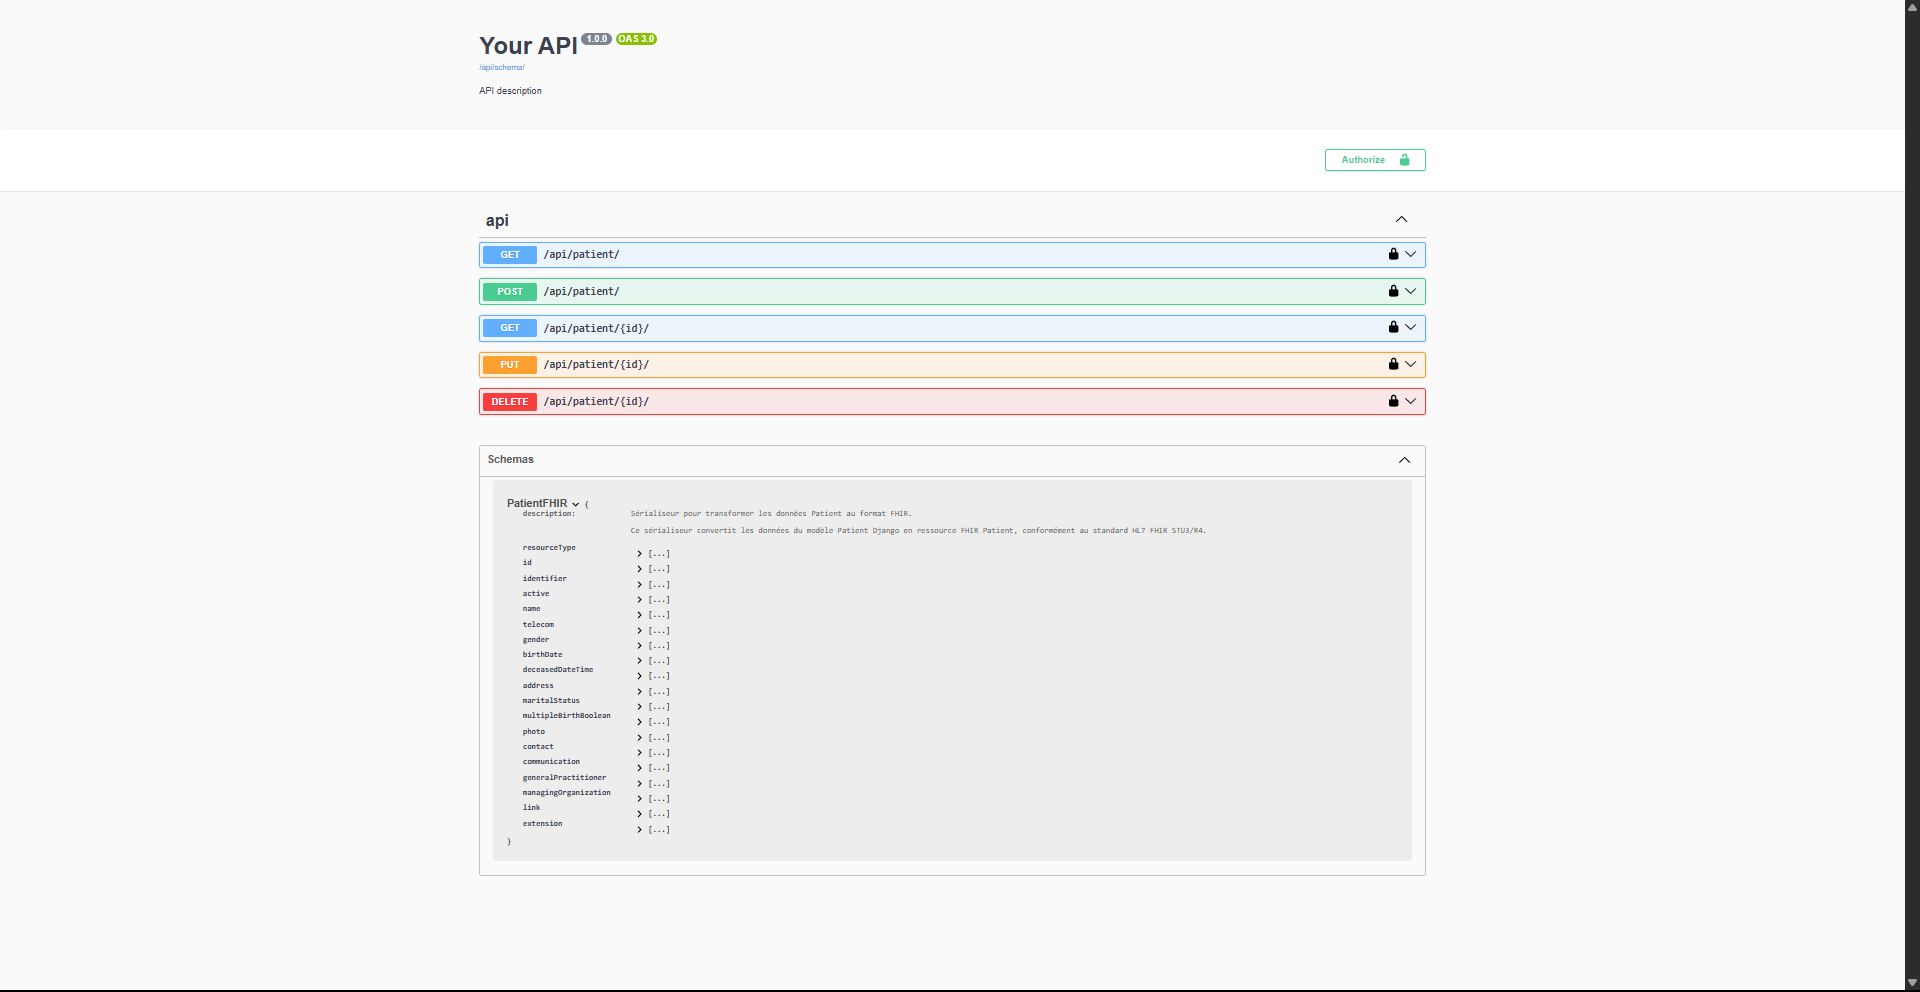
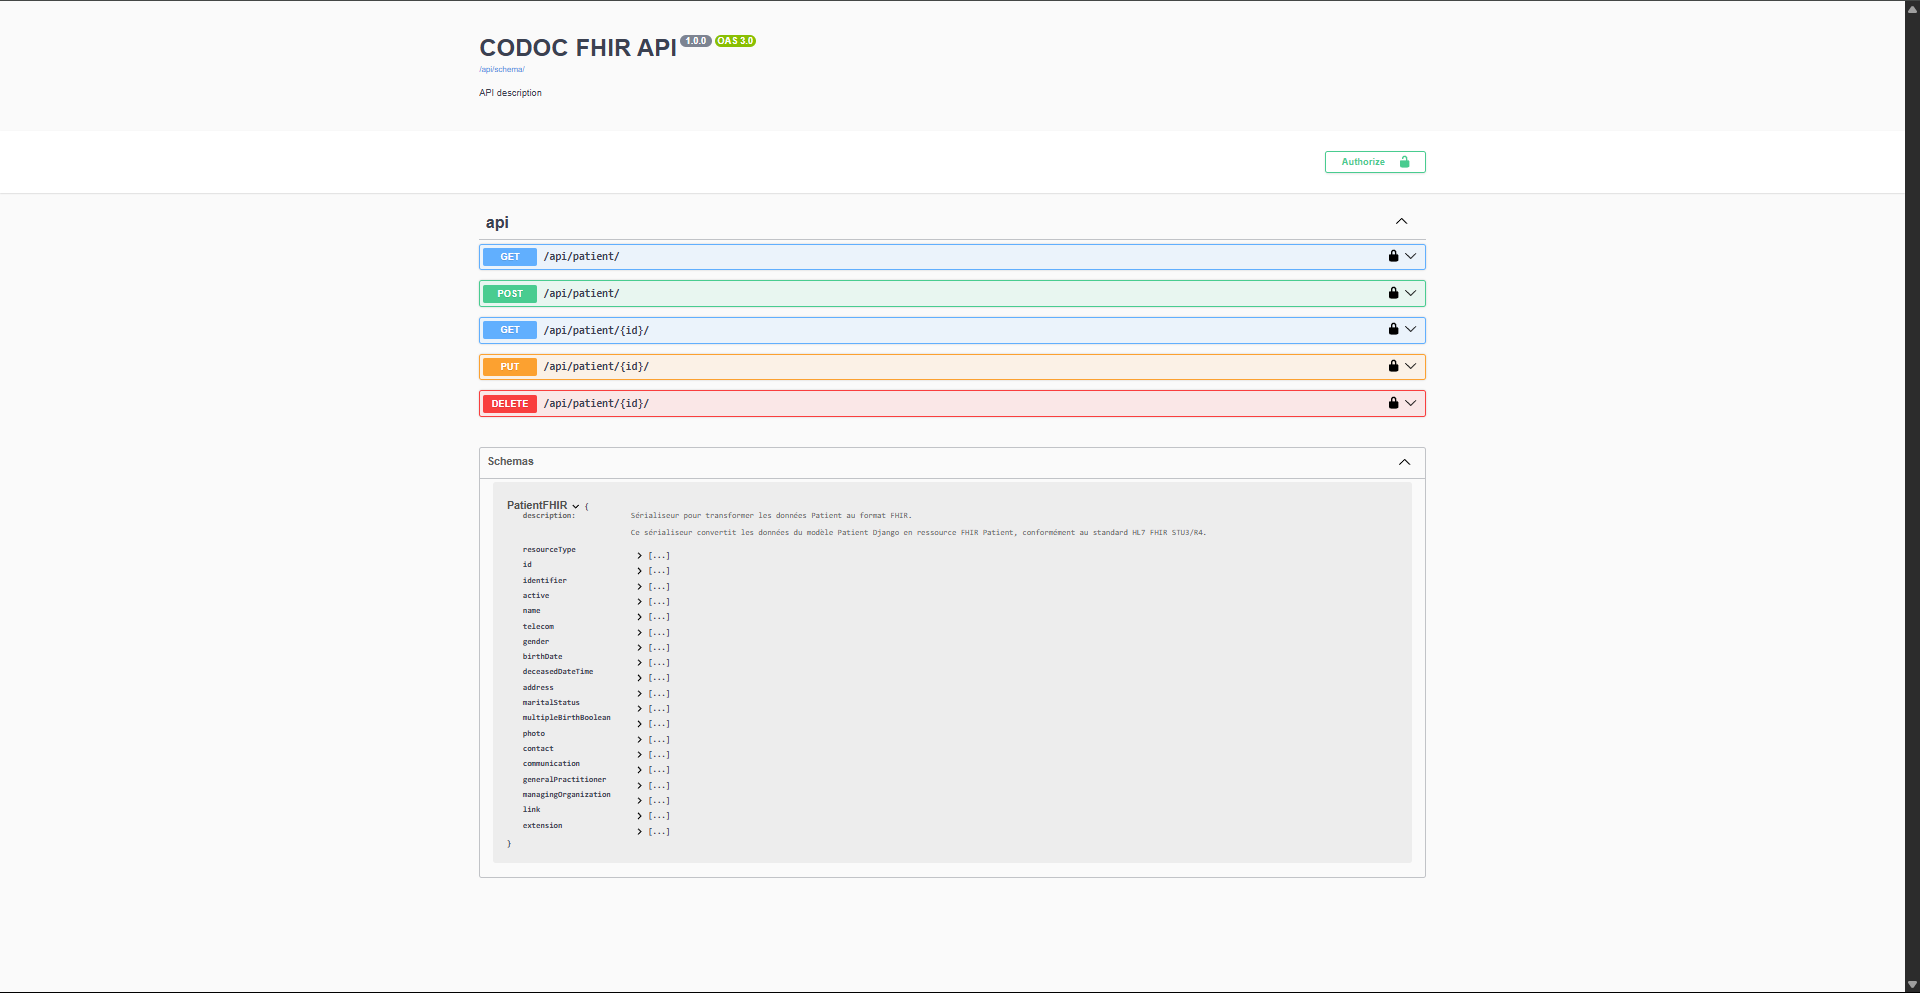
Mise à jour V.2.4 README.md Modification django.py pour drf_spectacular  Changes to be committed: 	modified:   dwh_fhir/settings/django.py 	modified:   static/img/screen_drf_spectacular.png

diff --git a/dwh_fhir/settings/django.py b/dwh_fhir/settings/django.py
@@ -177,7 +177,7 @@ SPECTACULAR_SETTINGS = {
     ],
     "COMPONENT_NO_READ_ONLY_REQUIRED": True,
     "SCHEMA_PATH_PREFIX": r"/api/v[0-9]",
-    "TITLE": "Your API",
+    "TITLE": "CODOC FHIR API",
     "DESCRIPTION": "API description",
     "VERSION": "1.0.0",
     "SERVE_INCLUDE_SCHEMA": False,
